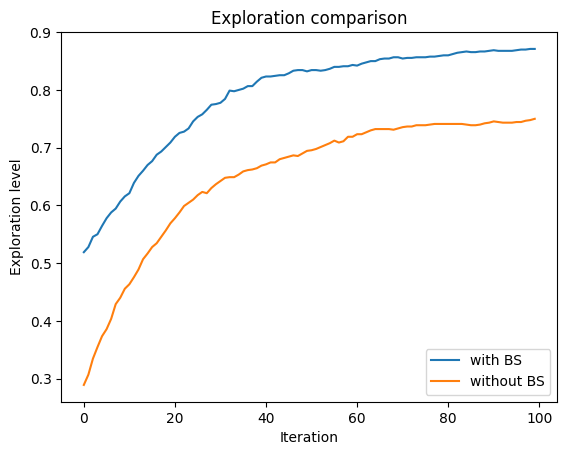
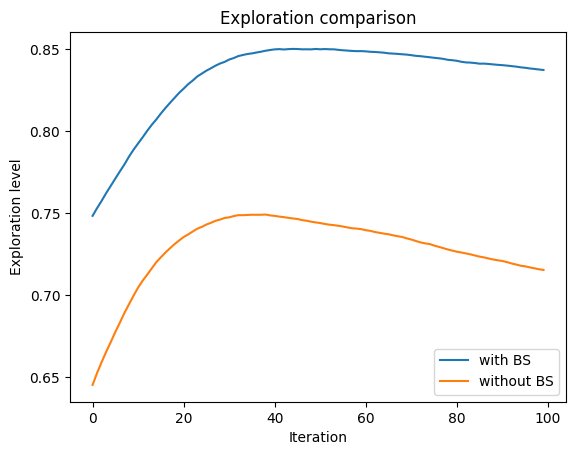
Fix data extraction bug

diff --git a/Experiment results/experiment1/experiment1_data_extraction.py b/Experiment results/experiment1/experiment1_data_extraction.py
@@ -12,7 +12,7 @@ for expl in [True, False]:
         for i in range(NUM_OF_SIMULATIONS):
             coverages[expl][bs].append(pickle.load(open(f"Experiment results/experiment1/expl {expl}/BS {bs}/{i}/coverages.p", 'rb')))
             if expl:
-                explorations[bs].append(pickle.load(open(f"Experiment results/experiment1/expl {expl}/BS {bs}/{i}/coverages.p", 'rb')))
+                explorations[bs].append(pickle.load(open(f"Experiment results/experiment1/expl {expl}/BS {bs}/{i}/exploration_levels.p", 'rb')))
 
 # get final statistics
 final_cov = {True: {True: [0 for _ in range(NUM_OF_SIMULATIONS)], False: [0 for _ in range(NUM_OF_SIMULATIONS)]}
